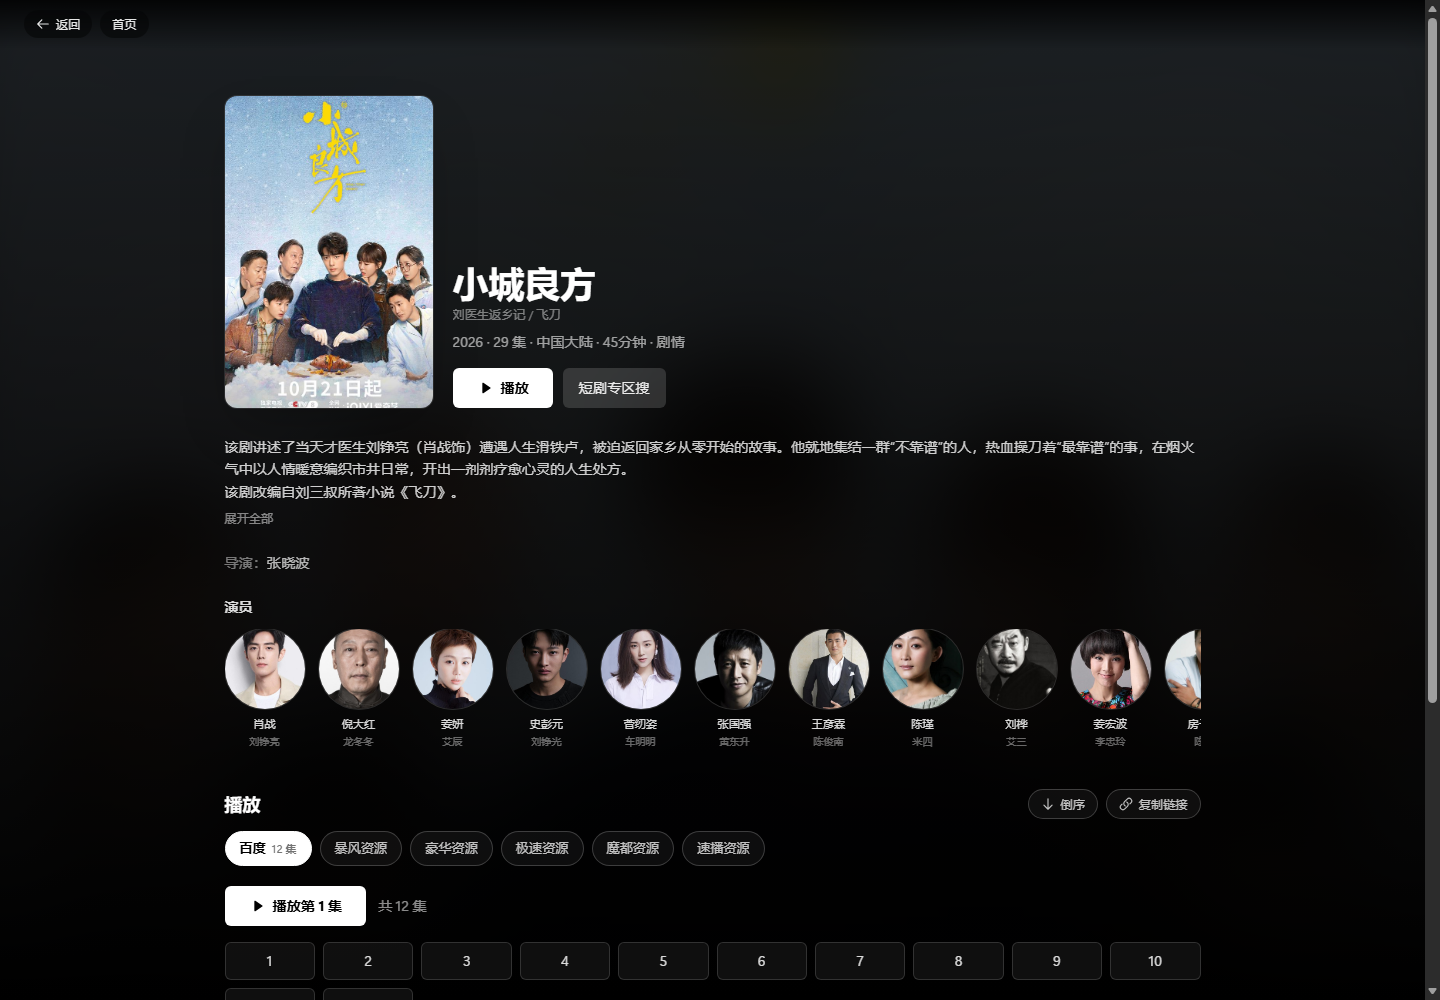
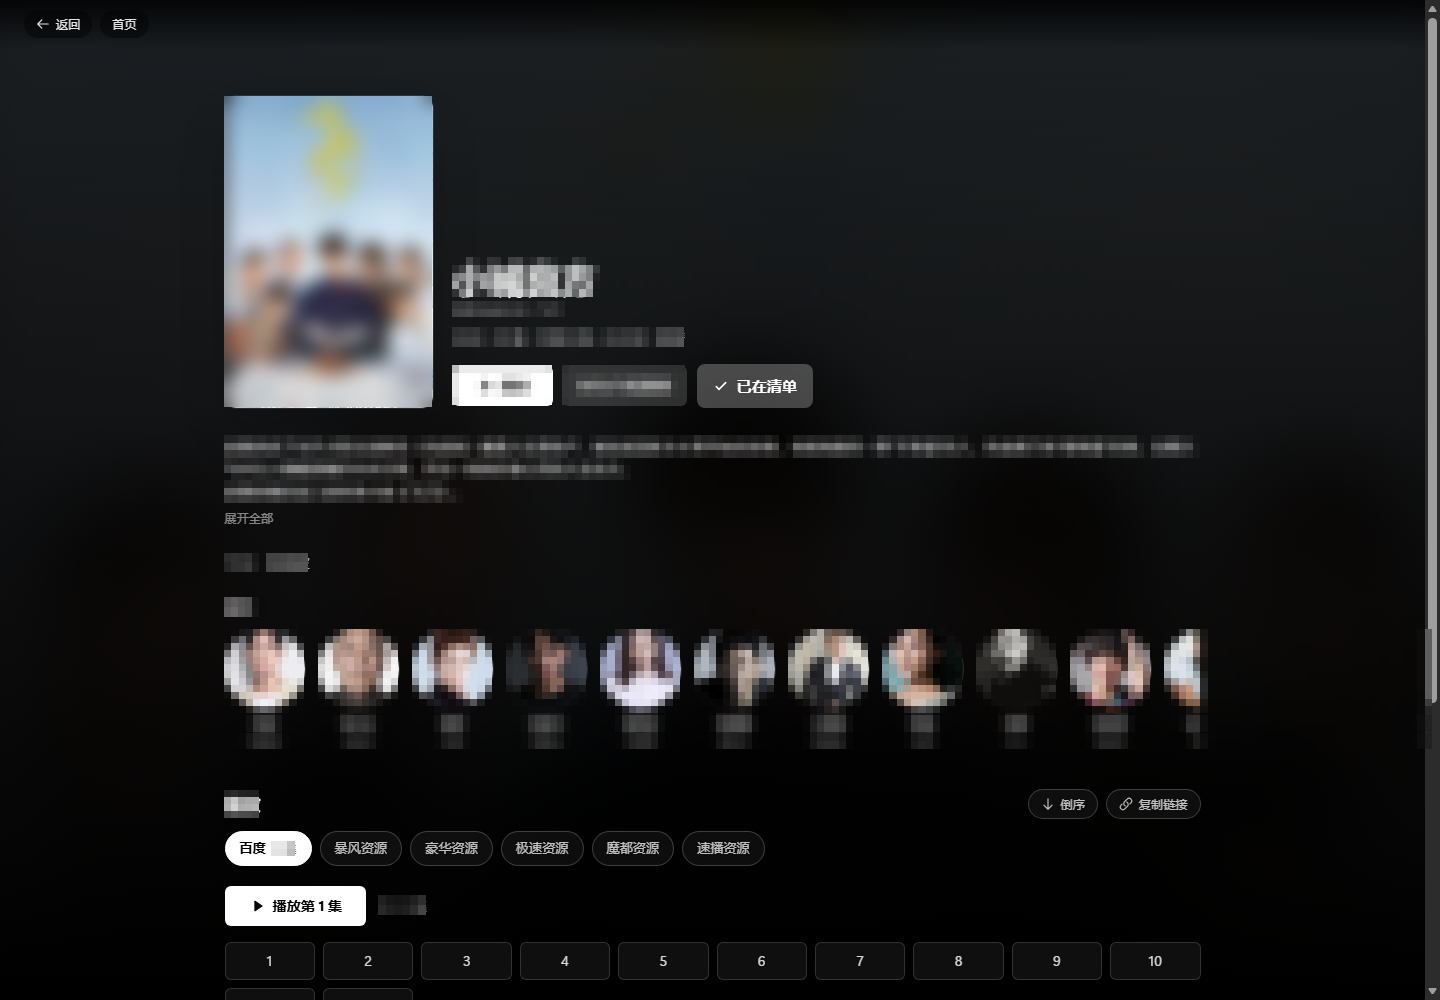
短剧：去掉浏览器侧抢流式预取，只保留内核预热（避免把正在播的这集挤到超时）

diff --git a/app/src/app/hongguo/page.tsx b/app/src/app/hongguo/page.tsx
@@ -598,22 +598,15 @@ export default function HongguoPage() {
     const at = eps.findIndex((e) => e.index === fromIndex);
     if (at < 0) return;
     void (async () => {
-      for (let k = 1; k <= 4; k++) {
+      for (let k = 1; k <= 5; k++) {
         const nx = eps[at + k];
         if (!nx || ctrl.signal.aborted) break;
         void hg(`/prewarm?vid=${encodeURIComponent(nx.vid)}`).catch(() => {});
-        await new Promise((r) => window.setTimeout(r, 600));
+        await new Promise((r) => window.setTimeout(r, 300));
         if (ctrl.signal.aborted) break;
-        try {
-          await fetch(streamUrlFor(nx.vid), {
-            headers: { Range: 'bytes=0-1572863' },
-            signal: ctrl.signal,
-            // Chromium 认识 priority，优先度调低，别顶掉当前这集的取流
-            priority: 'low',
-          } as RequestInit).then((r) => r.arrayBuffer());
-        } catch {
-          /* 预热失败不影响正常播放 */
-        }
+        // 只发内核侧预热：实测浏览器侧再抢一遍 Range 会跟当前这集的取流抢带宽，
+        // 反而把「正在播」的那集拖到超时（表现为「这一集没能加载出来」）。
+
       }
     })();
   };

diff --git a/README.md b/README.md
@@ -74,6 +74,8 @@
 
 ## 截图
 
+> 所有截图里的片名、演员名与海报画面均已打码处理，仅用于展示界面与版式。
+
 | 首页（头图 + 继续观看 + TOP 10） | 搜索结果（豆瓣条目 + 演员 + 大卡网格） |
 | --- | --- |
 | ![首页](docs/images/home.png) | ![搜索](docs/images/search.png) |
@@ -82,18 +84,13 @@
 | --- | --- |
 | ![演员检索](docs/images/actor-search.png) | ![豆瓣资料页](docs/images/title.png) |
 
-| 采集源资料页（导演 / 主演可点） | 相似影片 |
+| 采集源资料页（导演 / 主演可点） | 演员页（代表作 + 筛选） |
 | --- | --- |
-| ![采集源资料页](docs/images/detail-source.png) | ![相似影片](docs/images/similar.png) |
+| ![采集源资料页](docs/images/detail-source.png) | ![演员页](docs/images/person.png) |
 
-| 播放器（双击 ±10 秒 / 长按 2×） | 换源面板（标最快 + 看资料） |
-| --- | --- |
-| ![播放器](docs/images/watch.png) | ![换源面板](docs/images/switch-source.png) |
-
-| 演员页（作品网格） | 手机首页 |
-| --- | --- |
-| ![演员页](docs/images/person.png) | ![手机首页](docs/images/home-mobile.png) |
-
+| 手机首页 |
+| --- |
+| ![手机首页](docs/images/home-mobile.png) |
 
 ## 快速开始
 

diff --git a/CHANGELOG.md b/CHANGELOG.md
@@ -1,5 +1,28 @@
 # 更新日志
 
+## v1.3.0 — 更名 MFlixTV + 短剧预加载 + 我的清单
+
+### 更名
+
+- 项目更名 **MFlixTV**：界面文案、标题、manifest、页脚、订阅格式名、导出文件名、安装包与托盘程序、macOS 启动脚本全部替换；短剧专区改为 **MFlixTV短剧**。
+- 新图标：红底白 M（512 / 192 / 144 / 96 / 48 + favicon + 安装包图标）。
+- 默认访问密码固定为 **MFlixTV**。
+- 旧版本的本地设置与收藏会在启动时自动迁移到新键，不用重新添加点播源。
+
+### 新增
+
+- **我的清单**：资料页一键收藏，首页横滑展示。
+- **演员检索**：影片和演员一起搜，支持名字片段模糊命中。
+
+### 改进
+
+- **短剧预加载**：点第 1 集后，第 2–5 集串行预热（内核解密落盘 + 浏览器侧预取首段），换集即停，不抢当前这集的带宽。
+- 首页头图、继续观看、豆瓣条目行、相似影片；播放页双击 ±10 秒、长按 2 倍速；换集换源不黑屏。
+
+### 说明
+
+- 仓库与发行包中的示例截图均已打码，不含任何影片或演员信息。
+
 ## 未发布
 
 ### 新增
